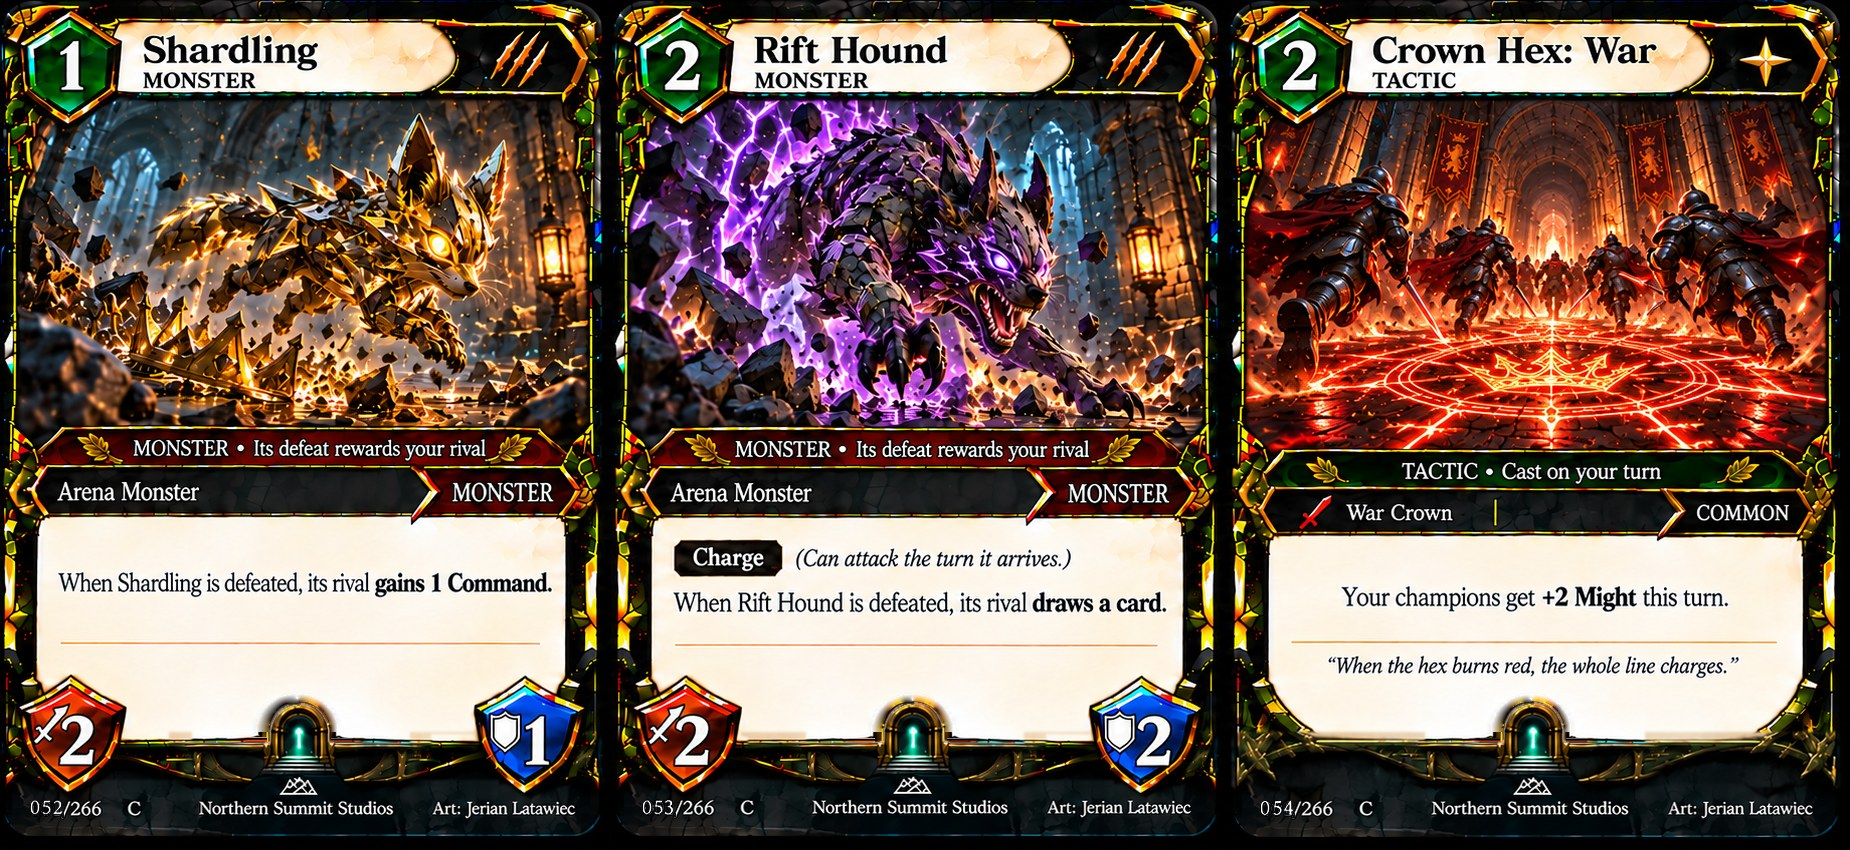
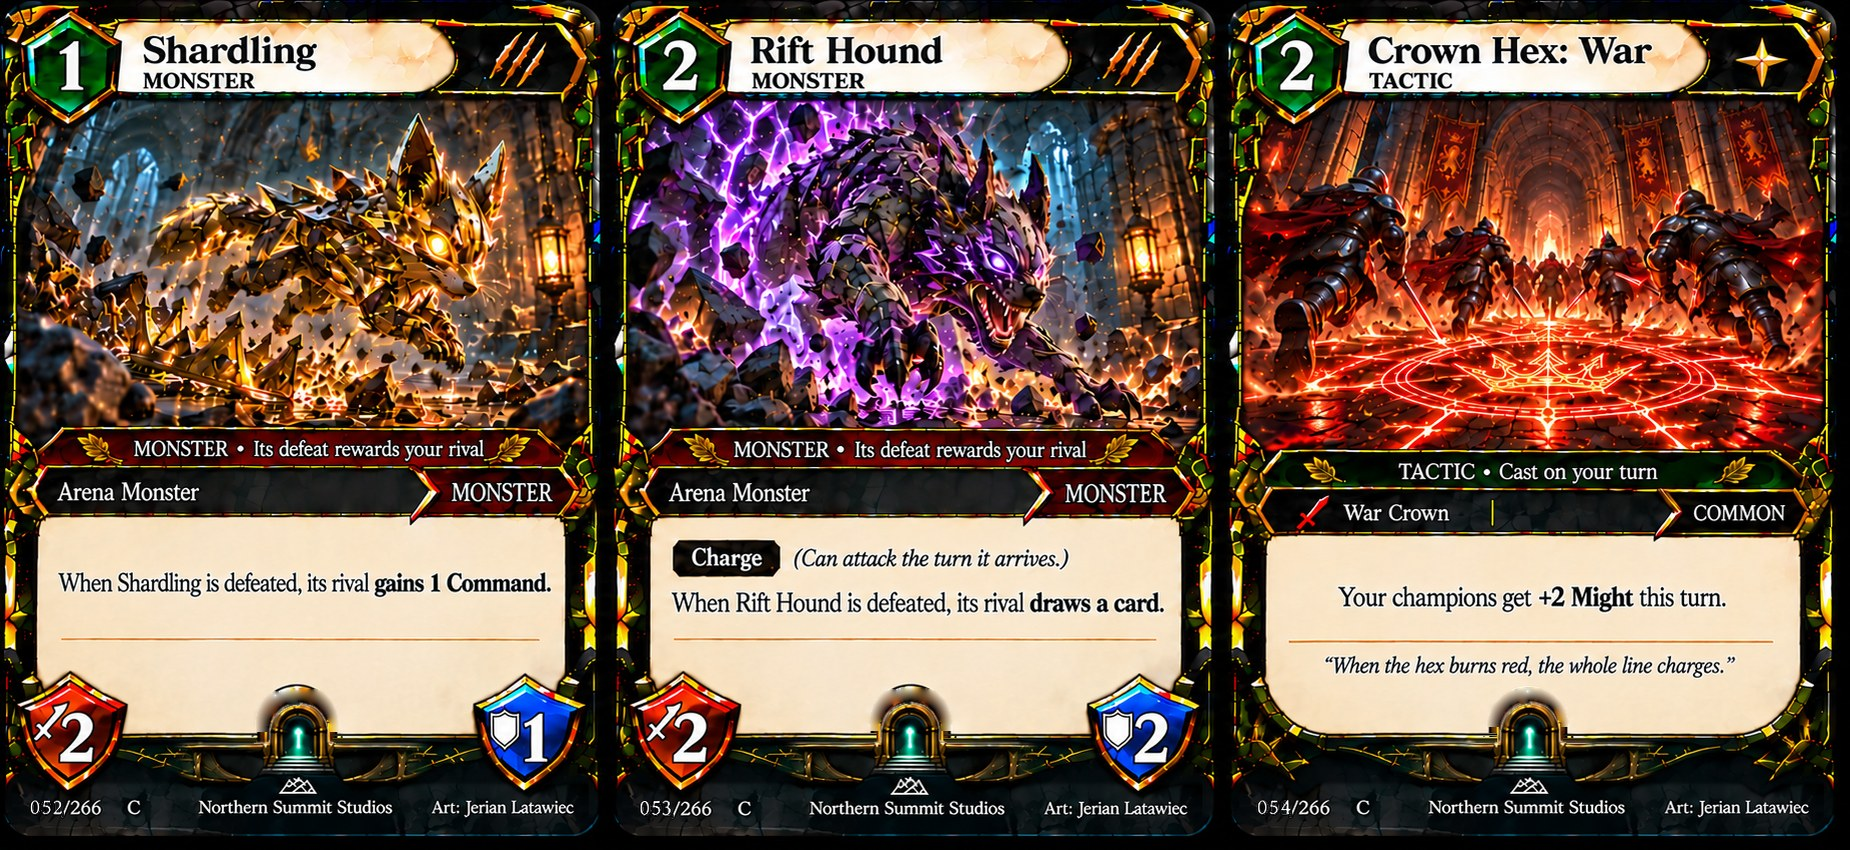
art(set2): GPT redraws of 052-057 bottom (clean gateway/band) installed as originals; rebuilt

diff --git a/prototype-v0.2/tools/set2-emblem.py b/prototype-v0.2/tools/set2-emblem.py
@@ -565,8 +565,7 @@ def clean_gate(card):
 
 
 # Cards whose GPT frame came back with a heavier bottom border (owner 2026-10-16): 052-060.
-BORDER_FIX = {"052": "champion", "053": "champion", "054": "spell", "055": "spell", "056": "spell",
-              "057": "spell", "058": "spell", "059": "spell", "060": "spell"}
+BORDER_FIX = {"058": "spell", "059": "spell", "060": "spell"}  # 052-057 redrawn by GPT 2026-10-17
 _BREF = {}
 
 
